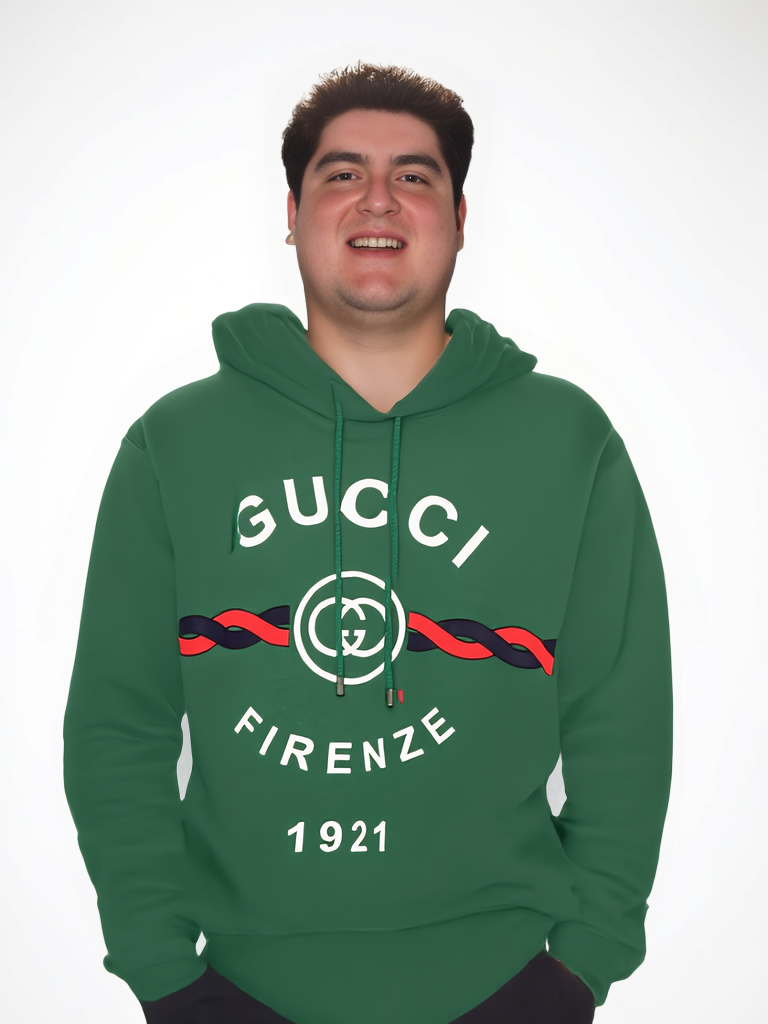
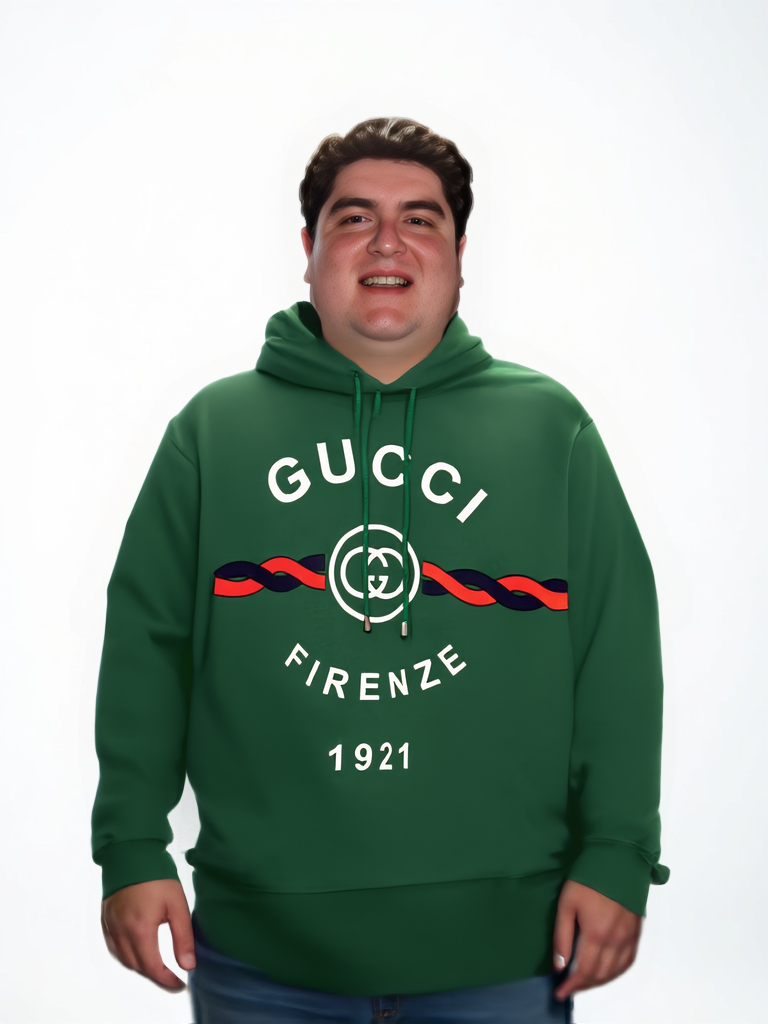
Update image processing by removing garment preprocessing
Remove the garment preprocessing function and update user attributes to include hair color.

Replit-Commit-Author: Agent
Replit-Commit-Session-Id: 3a5ecb3b-5b8e-4087-af4b-632954f5847e
Replit-Commit-Checkpoint-Type: full_checkpoint
Replit-Commit-Event-Id: d755ad7c-90c9-4008-8d01-4dc5b1ba6a90
Replit-Helium-Checkpoint-Created: true

diff --git a/pipeline.py b/pipeline.py
@@ -808,69 +808,16 @@ def correct_garment_text(outfit_path: str, garment_path: str) -> bool:
         return False
 
 
-def preprocess_garment(garment_path: str) -> str:
-    """
-    Remove hood, drawstring laces, and collar from a garment image before
-    sending to IDM-VTON.  The laces cross the GUCCI text and cause the model
-    to warp letters around them — removing them gives IDM-VTON a clean front
-    panel to work from.
-
-    Strategy:
-      1. Scan rows top-down for the first row with ≥10 bright (white) pixels —
-         that is the top of the garment text (≈33% from top for the Gucci hoodie).
-      2. Crop to (text_row − 5% padding) downward, trimming 5% from each side.
-      3. Save to a temp sidecar file next to the original.
-
-    Returns the path to the pre-processed image (original untouched).
-    """
-    import numpy as np
-    img = Image.open(garment_path).convert("RGB")
-    w, h = img.size
-    arr = np.array(img)
-    r, g, b = arr[:, :, 0], arr[:, :, 1], arr[:, :, 2]
-
-    # Scan for first row containing ≥10 bright pixels (white text)
-    text_row = None
-    for y in range(int(h * 0.20), int(h * 0.60)):
-        bright = int(((r[y] > 180) & (g[y] > 180) & (b[y] > 180)).sum())
-        if bright >= 10:
-            text_row = y
-            break
-
-    if text_row is None:
-        log.warning("  ⚠ preprocess_garment: no text row found, using original garment")
-        return garment_path
-
-    padding = int(h * 0.05)
-    crop_top = max(0, text_row - padding)
-    crop_left = int(w * 0.05)
-    crop_right = w - int(w * 0.05)
-
-    cropped = img.crop((crop_left, crop_top, crop_right, h))
-    new_h = cropped.size[1]
-    log.info(
-        f"  ✓ Preprocessed garment: cropped from {h} to {new_h}px "
-        f"(removed hood/laces above y={crop_top})"
-    )
-
-    out_path = "/tmp/garment_preprocessed.png"
-    cropped.save(out_path, "PNG")
-    return out_path
-
-
 def transfer_outfit(
     avatar_path: str,
     garment_path: str,
     output_path: str,
     category: str = "upper_body",
 ) -> QualityReport:
-    """Outfit transfer with retry, garment pre-processing, and QA. Returns QualityReport."""
-    log.info(f"  → IDM-VTON outfit transfer (category: {category})...")
+    """Outfit transfer with FASHN v1.6 and QA. Returns QualityReport."""
+    log.info(f"  → FASHN outfit transfer (category: {category})...")
 
-    # Pre-process garment: strip hood/laces so text region is clean for VTON
-    effective_garment = preprocess_garment(garment_path)
-
-    result_url = _run_fashn(avatar_path, effective_garment, category)
+    result_url = _run_fashn(avatar_path, garment_path, category)
     download_image(result_url, output_path)
 
     # Ensure consistent dimensions
